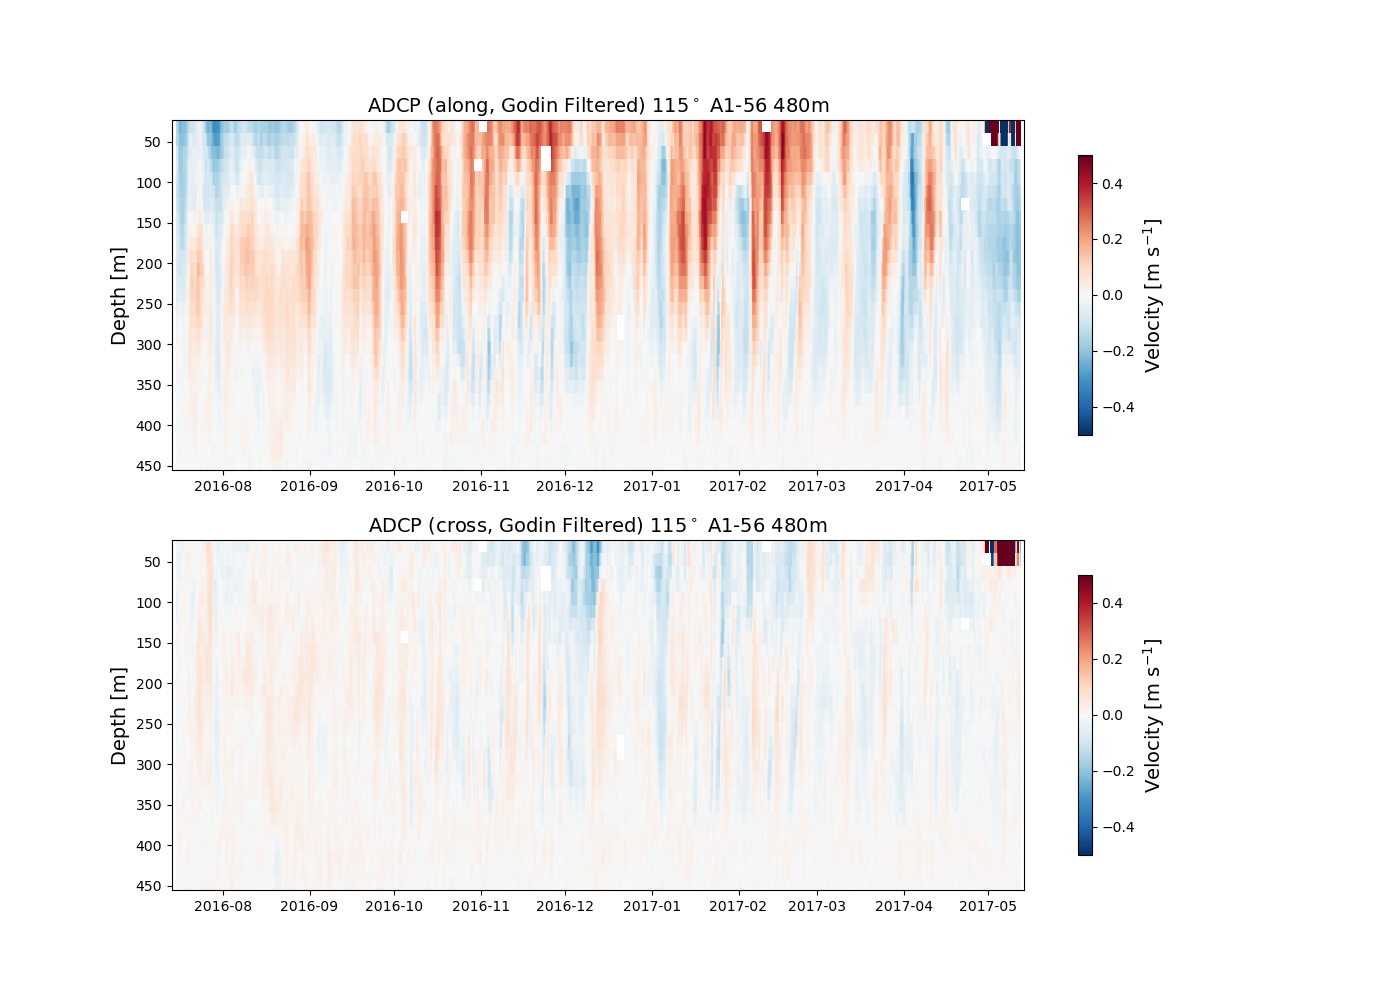
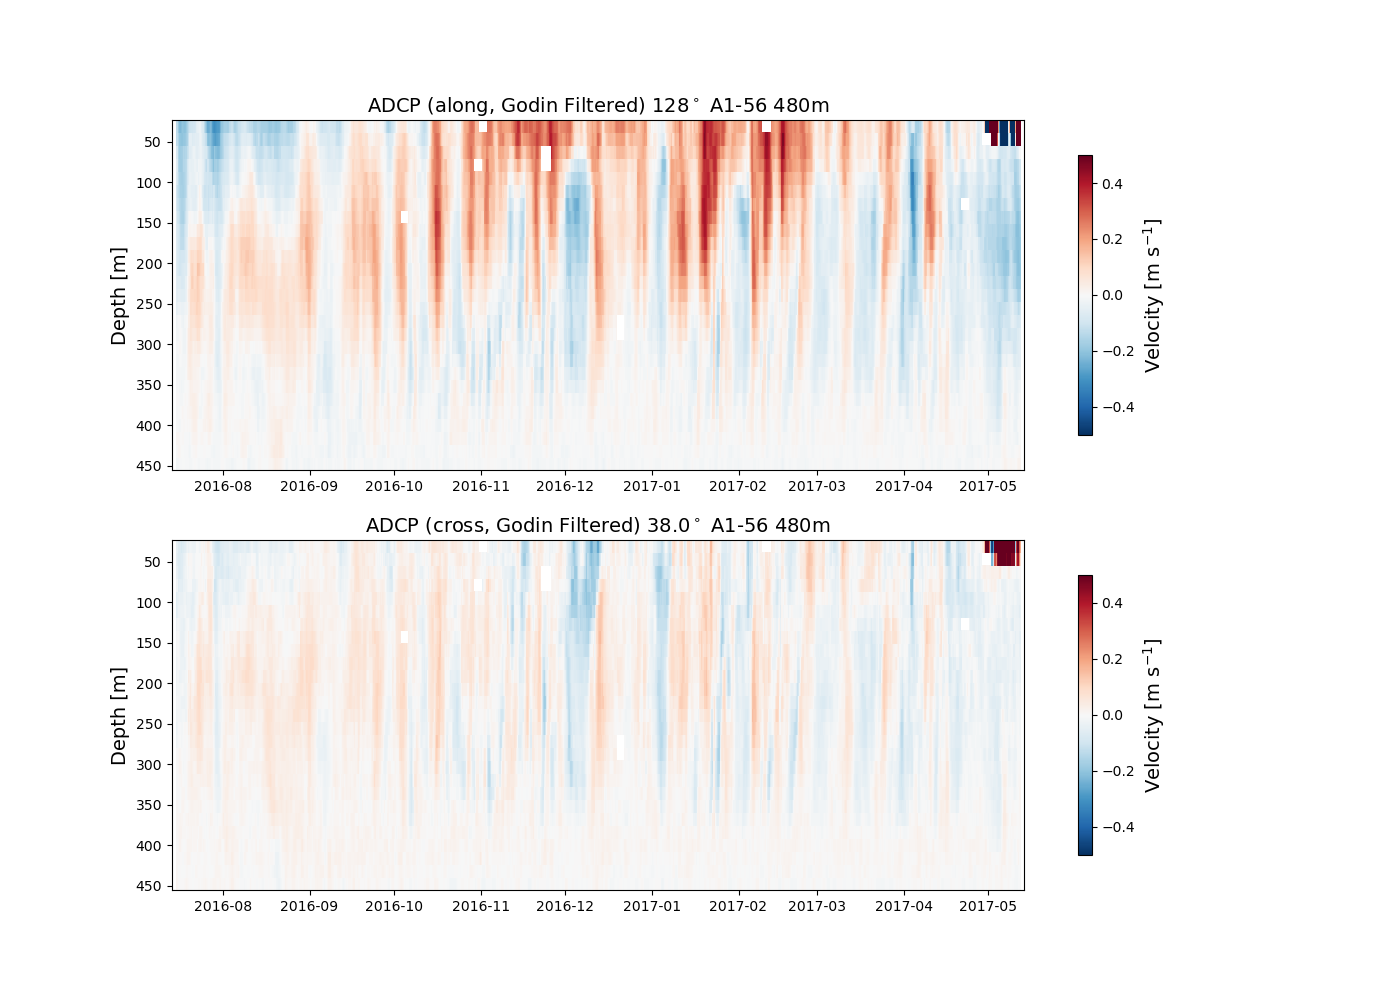
Removed bad_bins kwarg from plot_westcoast_nc, L1 code tidying

diff --git a/pycurrents_ADCP_processing/plot_westcoast_nc_LX.py b/pycurrents_ADCP_processing/plot_westcoast_nc_LX.py
@@ -48,16 +48,14 @@ def get_L1_start_end(ncdata):
     return start_end_indices
 
 
-def limit_data(ncdata, ew_data, ns_data, bad_bins=0):
+def limit_data(ncdata, ew_data, ns_data):
     if ncdata.orientation == 'up':
         bin_depths = ncdata.instrument_depth - ncdata.distance.data
     else:
         bin_depths = ncdata.instrument_depth + ncdata.distance.data
     print(bin_depths)
 
-    # data.time should be limited to the data.time with no NA values
-    # AS and CS will need to be likewise limited
-    # bins must be limited
+    # data.time should be limited to the data.time with no NA values; bins must be limited
     if 'L1' in ncdata.filename.data.tolist() or 'L2' in ncdata.filename.data.tolist():
         new_first_last = get_L1_start_end(ncdata=ncdata)
     else:
@@ -66,17 +64,11 @@ def limit_data(ncdata, ew_data, ns_data, bad_bins=0):
     # Remove bins where surface backscatter occurs
     time_lim = ncdata.time.data[new_first_last[0]:new_first_last[1]]
 
-    if bad_bins != 0:
-        bin_depths_lim = bin_depths[:-bad_bins]
-        print(bin_depths_lim)
+    bin_depths_lim = bin_depths[bin_depths >= 0]
+    print(bin_depths_lim)
 
-        ew_lim = ew_data[:-bad_bins, new_first_last[0]:new_first_last[1]]
-        ns_lim = ns_data[:-bad_bins, new_first_last[0]:new_first_last[1]]
-    else:
-        bin_depths_lim = bin_depths
-
-        ew_lim = ew_data[:, new_first_last[0]:new_first_last[1]]
-        ns_lim = ns_data[:, new_first_last[0]:new_first_last[1]]
+    ew_lim = ew_data[bin_depths >= 0, new_first_last[0]:new_first_last[1]]
+    ns_lim = ns_data[bin_depths >= 0, new_first_last[0]:new_first_last[1]]
 
     return time_lim, bin_depths_lim, ns_lim, ew_lim
 
@@ -193,18 +185,18 @@ def make_pcolor_ac(data, dest_dir, time_lim, bin_depths_lim, ns_lim, ew_lim, fil
     ax1.set_ylabel('Depth [m]', fontsize=14)
     if 'h' in filter_type:
         ax1.set_title(
-            'ADCP (along, {} average) {}$^\circ$ {}-{} {}m'.format(filter_type, along_angle, data.attrs['station'],
+            'ADCP (along, {} average) {}$^\circ$ (CCW from E) {}-{} {}m'.format(filter_type, along_angle, data.attrs['station'],
                                                                    data.attrs['deployment_number'],
                                                                    math.ceil(data.instrument_depth)),
             fontsize=14)
     elif filter_type == 'Godin':
         ax1.set_title(
-            'ADCP (along, Godin Filtered) {}$^\circ$ {}-{} {}m'.format(along_angle, data.attrs['station'],
+            'ADCP (along, Godin Filtered) {}$^\circ$ (CCW from E) {}-{} {}m'.format(along_angle, data.attrs['station'],
                                                                        data.attrs['deployment_number'],
                                                                        math.ceil(data.instrument_depth)),
             fontsize=14)
     elif filter_type == 'raw':
-        ax1.set_title('ADCP (along, raw) {}$^\circ$ {}-{} {}m'.format(along_angle, data.attrs['station'],
+        ax1.set_title('ADCP (along, raw) {}$^\circ$ (CCW from E) {}-{} {}m'.format(along_angle, data.attrs['station'],
                                                                       data.attrs['deployment_number'],
                                                                       math.ceil(data.instrument_depth)), fontsize=14)
     else:
@@ -398,19 +390,18 @@ def binplot_compare_filt(nc, dest_dir, time, dat_raw, dat_filt, filter_type, dir
     return os.path.abspath(plot_name)
 
 
-def create_westcoast_plots(ncfile, dest_dir, filter_type="Godin", bad_bins=0):
+def create_westcoast_plots(ncfile, dest_dir, filter_type="Godin"):
     """
     Inputs:
         - ncfile: file name of netCDF ADCP file
         - dest_dir: destination directory for output files
         - filter_type: "Godin", "30h", or "35h"
-        - bad_bins: the number of bins that are above the sea surface ("bad")
     Outputs:
         - list of absolute file names of output files
     """
     ncdata = xr.open_dataset(ncfile)
 
-    time_lim, bin_depths_lim, ns_lim, ew_lim = limit_data(ncdata, ncdata.LCEWAP01.data, ncdata.LCNSAP01.data, bad_bins)
+    time_lim, bin_depths_lim, ns_lim, ew_lim = limit_data(ncdata, ncdata.LCEWAP01.data, ncdata.LCNSAP01.data)
 
     # North/East velocity plots
     fname_ne = make_pcolor_ne(ncdata, dest_dir, time_lim, bin_depths_lim, ns_lim, ew_lim)
@@ -430,7 +421,7 @@ def create_westcoast_plots(ncfile, dest_dir, filter_type="Godin", bad_bins=0):
         ValueError("filter_type value not understood !")
 
     # Limit data
-    time_lim, bin_depths_lim, ns_filt_lim, ew_filt_lim = limit_data(ncdata, ew_filt, ns_filt, bad_bins)
+    time_lim, bin_depths_lim, ns_filt_lim, ew_filt_lim = limit_data(ncdata, ew_filt, ns_filt)
 
     # East/North
     fname_ne_filt = make_pcolor_ne(ncdata, dest_dir, time_lim, bin_depths_lim, ns_filt_lim, ew_filt_lim, filter_type)

diff --git a/pycurrents_ADCP_processing/ADCP_processing_L1.py b/pycurrents_ADCP_processing/ADCP_processing_L1.py
@@ -206,9 +206,7 @@ def flag_pressure(pres, ens1, ens2, metadata_dict):
         PRESPR01_QC_var[-ens2:] = 4
 
     # Flag negative pressure values
-    for i in range(len(pres)):
-        if pres[i] < 0:
-            PRESPR01_QC_var[i] = 4  #"bad_data"
+    PRESPR01_QC_var[pres < 0] = 4
 
     pres[PRESPR01_QC_var == 4] = np.nan
 
